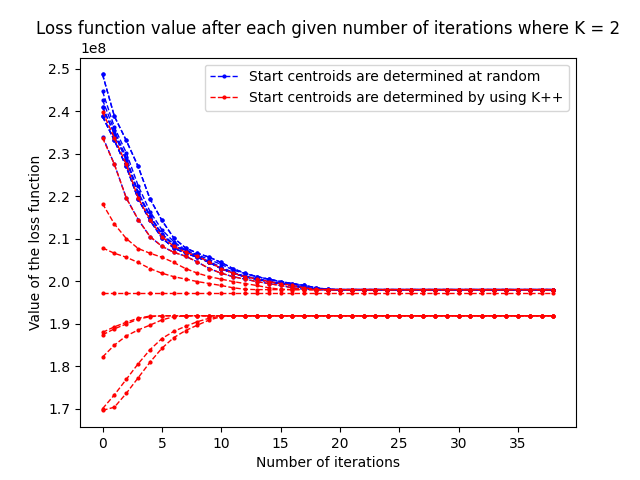
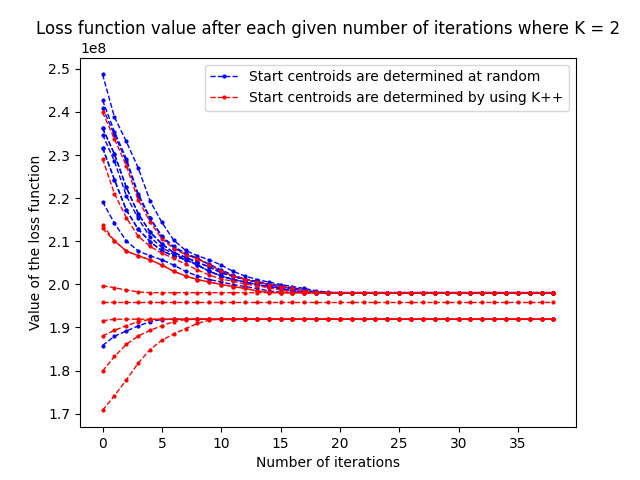
Updates

diff --git a/QuestionOne/OneA/EuclideanKMeansClustering.py b/QuestionOne/OneA/EuclideanKMeansClustering.py
@@ -58,13 +58,11 @@ class EuclideanKMeansClustering(KMeansClustering):
         self.setClusterDictionary()                             # Set cluster dictionary
         self.setCentroids()                                     # Set new centroids
 
-
     def firstIterationRandom(self):                             # Only called for first iteration, sets the first centroids by means of the maxima of the data columns.
         self.setRandomStartCentroids()                          # Set start centroids by K++    
         self.setDistanceOfPointsToCentroidsMatrix()             # Get distance points to centroids matrix
         self.setClusterDictionary()                             # Set cluster dictionary
         self.setCentroids()                                     # Set new centroids
-
 
     def improveLossFunctionValue(self):                           # Is called in every loop to decrease the Loss function Value by resetting the centroids in a better wat
         self.setDistanceOfPointsToCentroidsMatrix()

diff --git a/QuestionOne/OneA/ComparingStartCentroidMethods.py b/QuestionOne/OneA/ComparingStartCentroidMethods.py
@@ -43,10 +43,10 @@ def runNewIterationWithFixedEndRandom(currentAlgorithmIterationValues, currentRu
 KPlusPlusList = []
 KPlusPlusFinalLossList = []
 
-# First iteration which uses K++ start centroids
+# First iteration which uses K++ start centroids, K++ is default
 def startFirstIterationKplusplus(K):
     currentAlgorithmIterationValues = EuclideanKMeansClustering(dataSetFilePath, K)
-    currentAlgorithmIterationValues.runFirstIterationKPlusPlus()
+    currentAlgorithmIterationValues.firstIteration()
     return currentAlgorithmIterationValues
 
 # Minor changes w.r.t improveUntilTresholdReached() consisting of appending to list for plotting and removing redundant variables 
